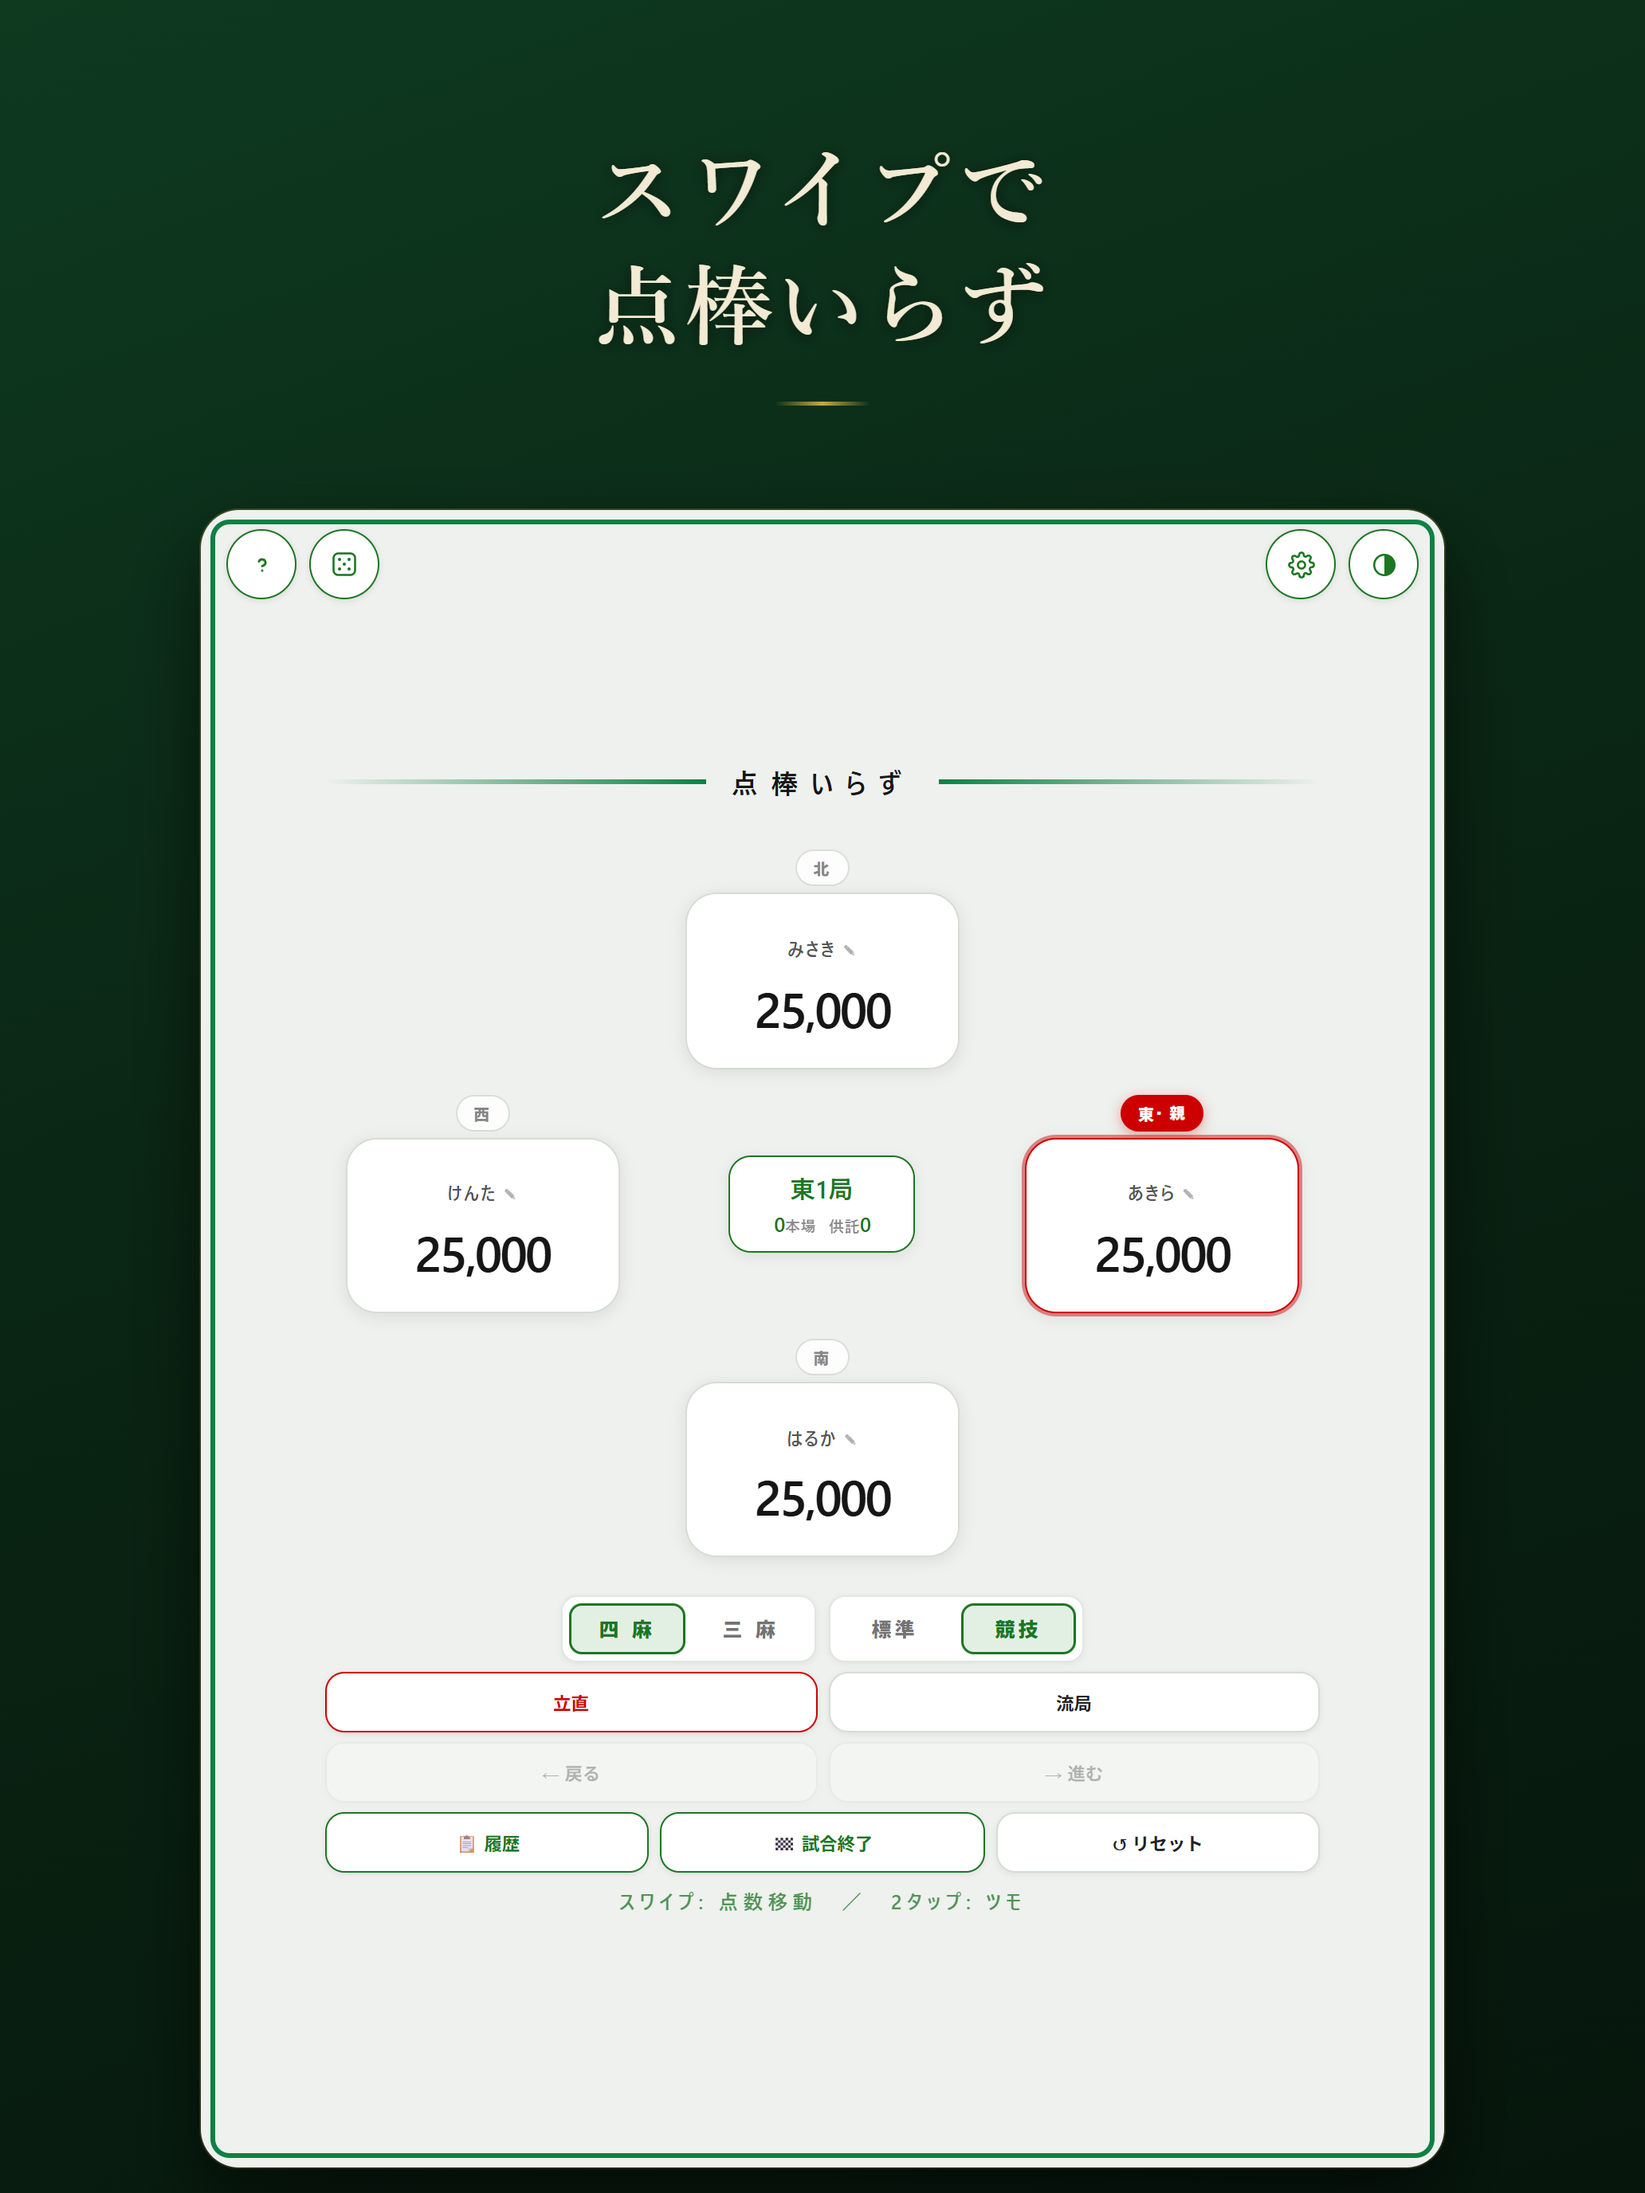
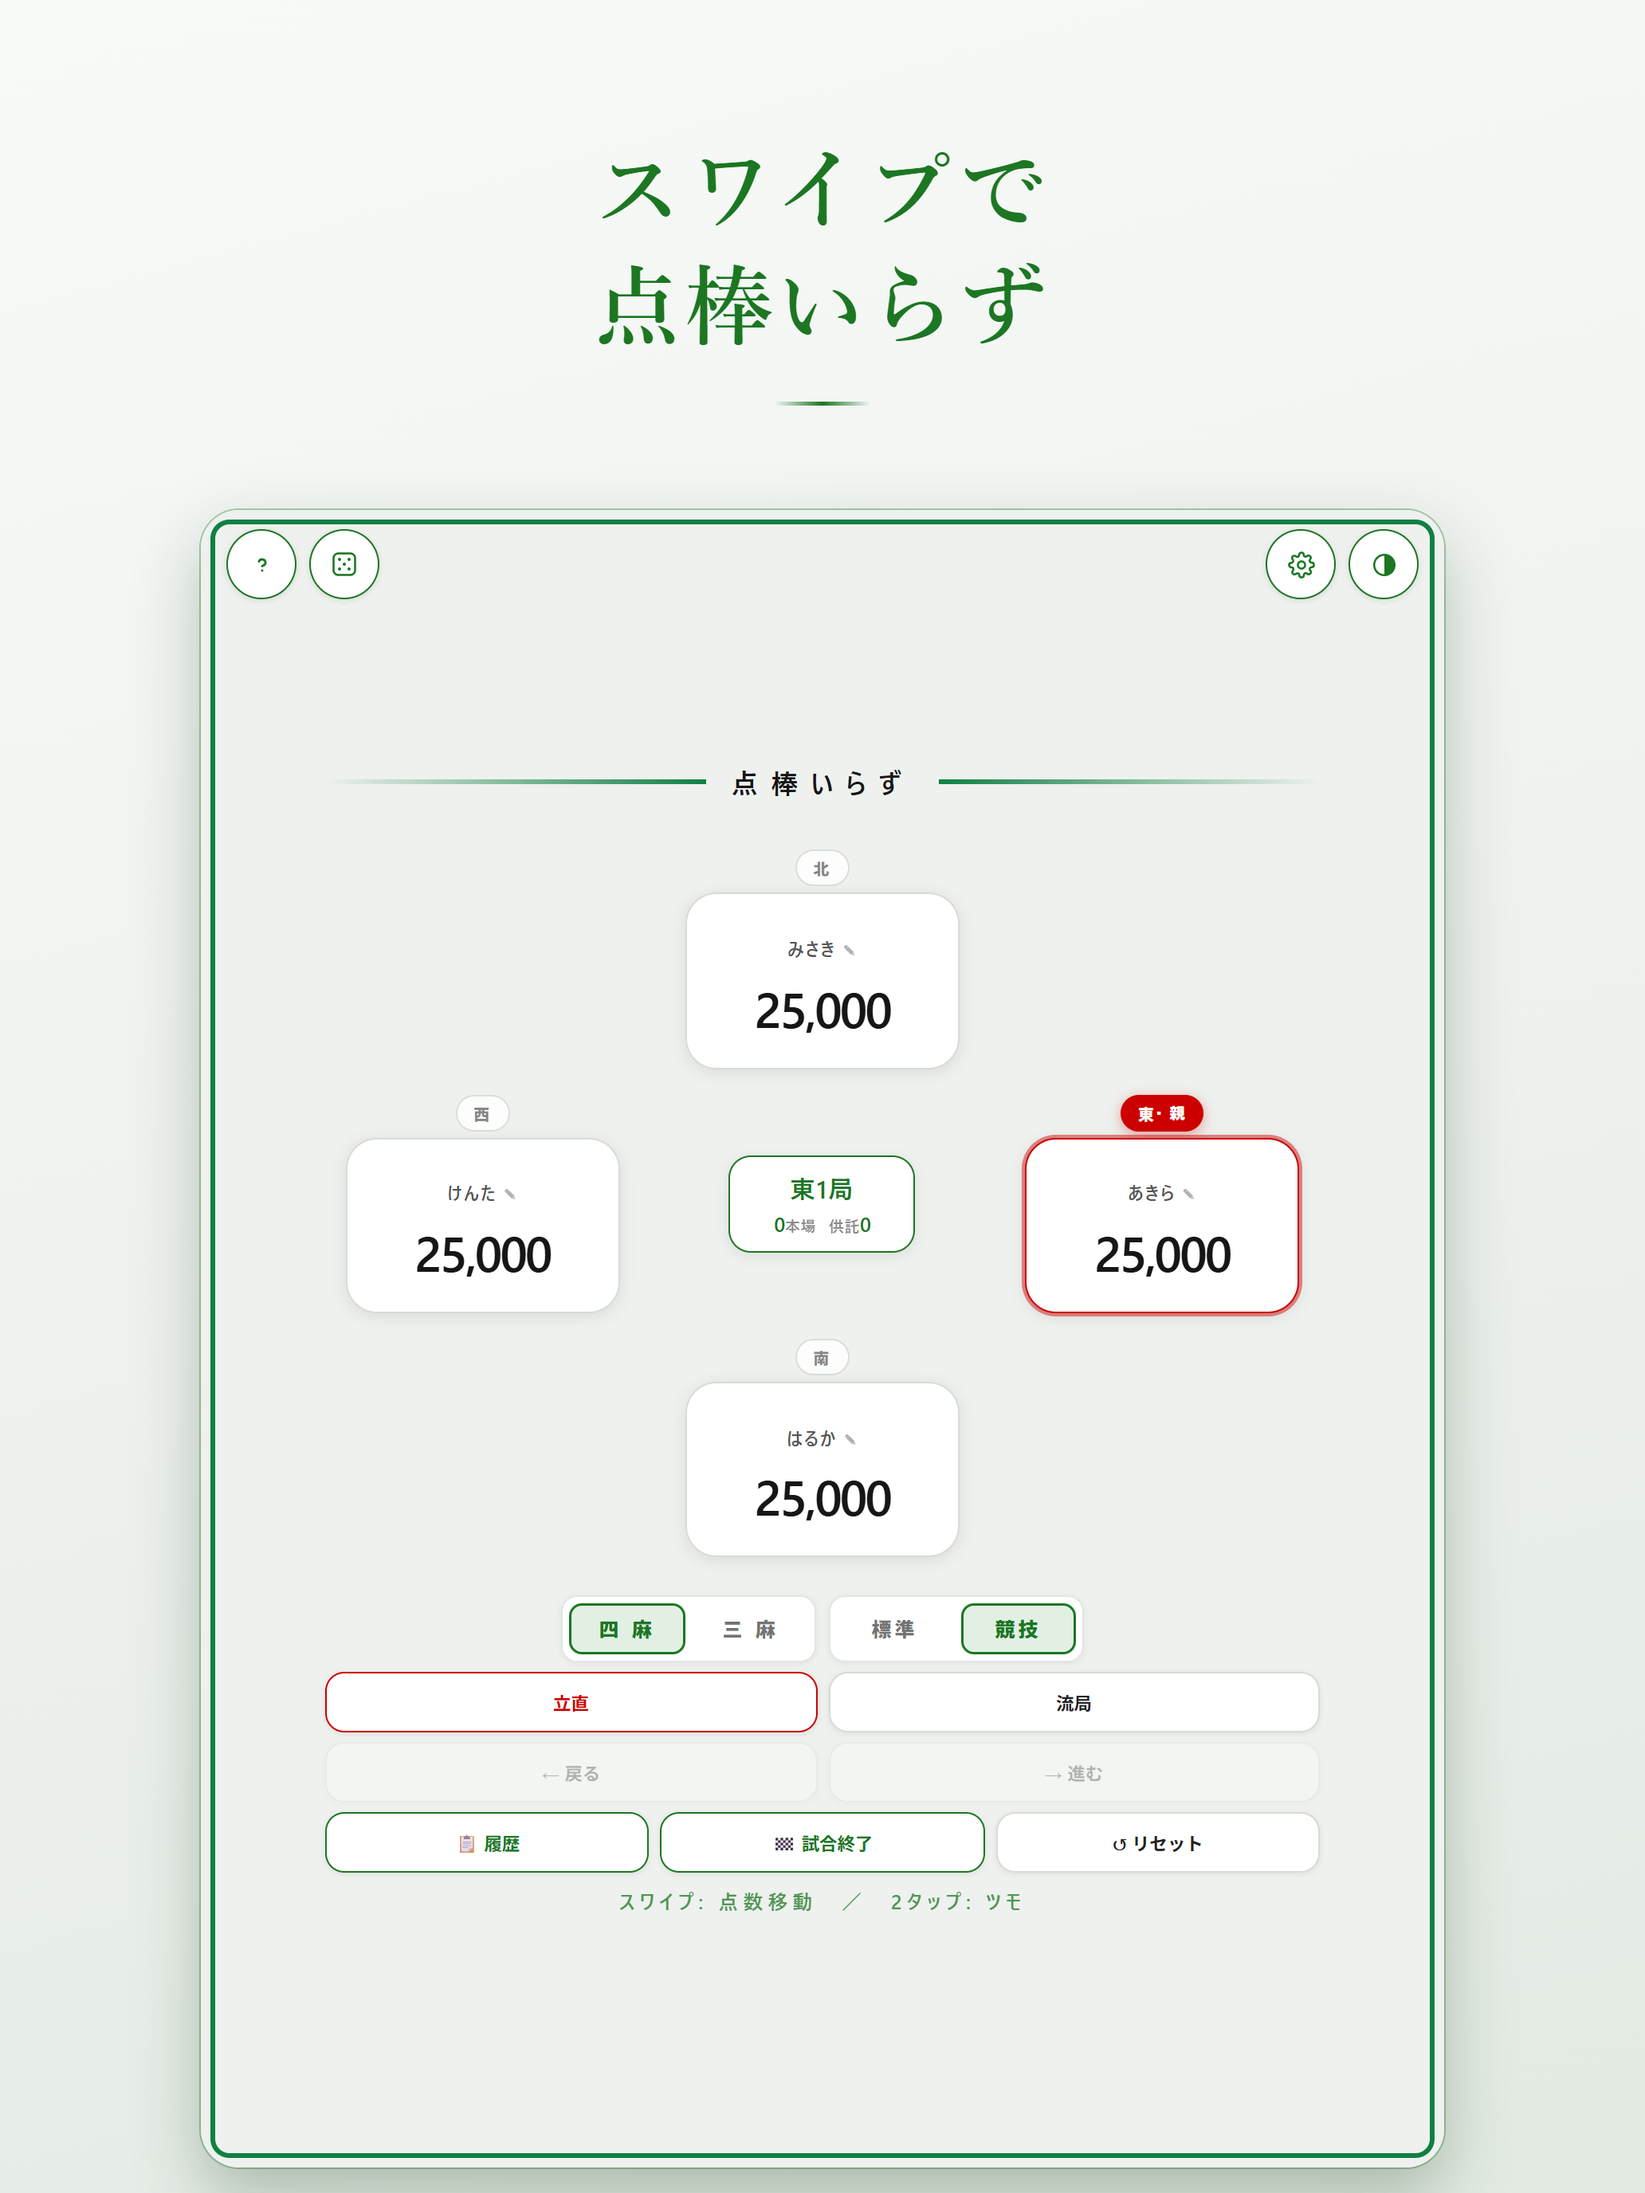
fix: スプラッシュの文字被り修正 + スクショ背景と配色をグリーンテーマに統一
- スプラッシュ: タイトルを緑枠内に収まるサイズ・字間に修正（5文字×140px+字間36）
- ストアスクショの背景を和テーマの深緑からグリーンテーマのライト基調に変更
  （キャプション緑・ルール緑・枠影も緑系に）
- manifest.json / meta theme-color を #060e06 → #eef1ee に更新（PWAのバー色もグリーンテーマに一致）

diff --git a/tools/make_store_shots.js b/tools/make_store_shots.js
@@ -81,16 +81,15 @@ async function frameShot(browser, sc, b64, outPath) {
     *{margin:0;padding:0;box-sizing:border-box}
     html,body{width:${P.w}px;height:${P.h}px;overflow:hidden}
     .bg{width:${P.w}px;height:${P.h}px;position:relative;
-      background:linear-gradient(160deg,#0e3a20 0%,#0a2614 45%,#06160c 100%);
+      background:linear-gradient(165deg,#f7faf7 0%,#eef1ee 55%,#e2eae2 100%);
       font-family:'Hiragino Mincho ProN','Yu Mincho','MS Mincho',serif;}
     .cap{position:absolute;top:${P.capTop}px;left:0;right:0;text-align:center;padding:0 80px;}
-    .cap h1{color:#f2ead2;font-size:${P.capSize}px;font-weight:700;letter-spacing:5px;line-height:1.32;
-      text-shadow:0 2px 18px rgba(0,0,0,.5);}
+    .cap h1{color:#1c7622;font-size:${P.capSize}px;font-weight:700;letter-spacing:5px;line-height:1.32;}
     .cap .rule{width:120px;height:5px;margin:44px auto 0;border-radius:3px;
-      background:linear-gradient(90deg,transparent,#c8a840,transparent);}
+      background:linear-gradient(90deg,transparent,#1c7622,transparent);}
     .shot{position:absolute;left:50%;top:${P.shotTop}px;transform:translateX(-50%);
       width:${P.shotW}px;border-radius:${P.radius}px;overflow:hidden;
-      box-shadow:0 40px 90px rgba(0,0,0,.55), 0 0 0 2px rgba(200,168,64,.25);}
+      box-shadow:0 36px 80px rgba(18,58,24,.28), 0 0 0 2px rgba(28,118,34,.35);}
     .shot img{display:block;width:${P.shotW}px;}
   </style></head><body>
     <div class="bg">

diff --git a/index.html b/index.html
@@ -5,7 +5,7 @@
   <meta name="viewport" content="width=device-width, initial-scale=1.0, maximum-scale=1.0, user-scalable=no, viewport-fit=cover">
   <title>点棒いらず</title>
   <link rel="manifest" href="manifest.json">
-  <meta name="theme-color" content="#060e06">
+  <meta name="theme-color" content="#eef1ee">
   <meta name="apple-mobile-web-app-capable" content="yes">
   <meta name="apple-mobile-web-app-status-bar-style" content="black-translucent">
   <meta name="apple-mobile-web-app-title" content="点棒いらず">
